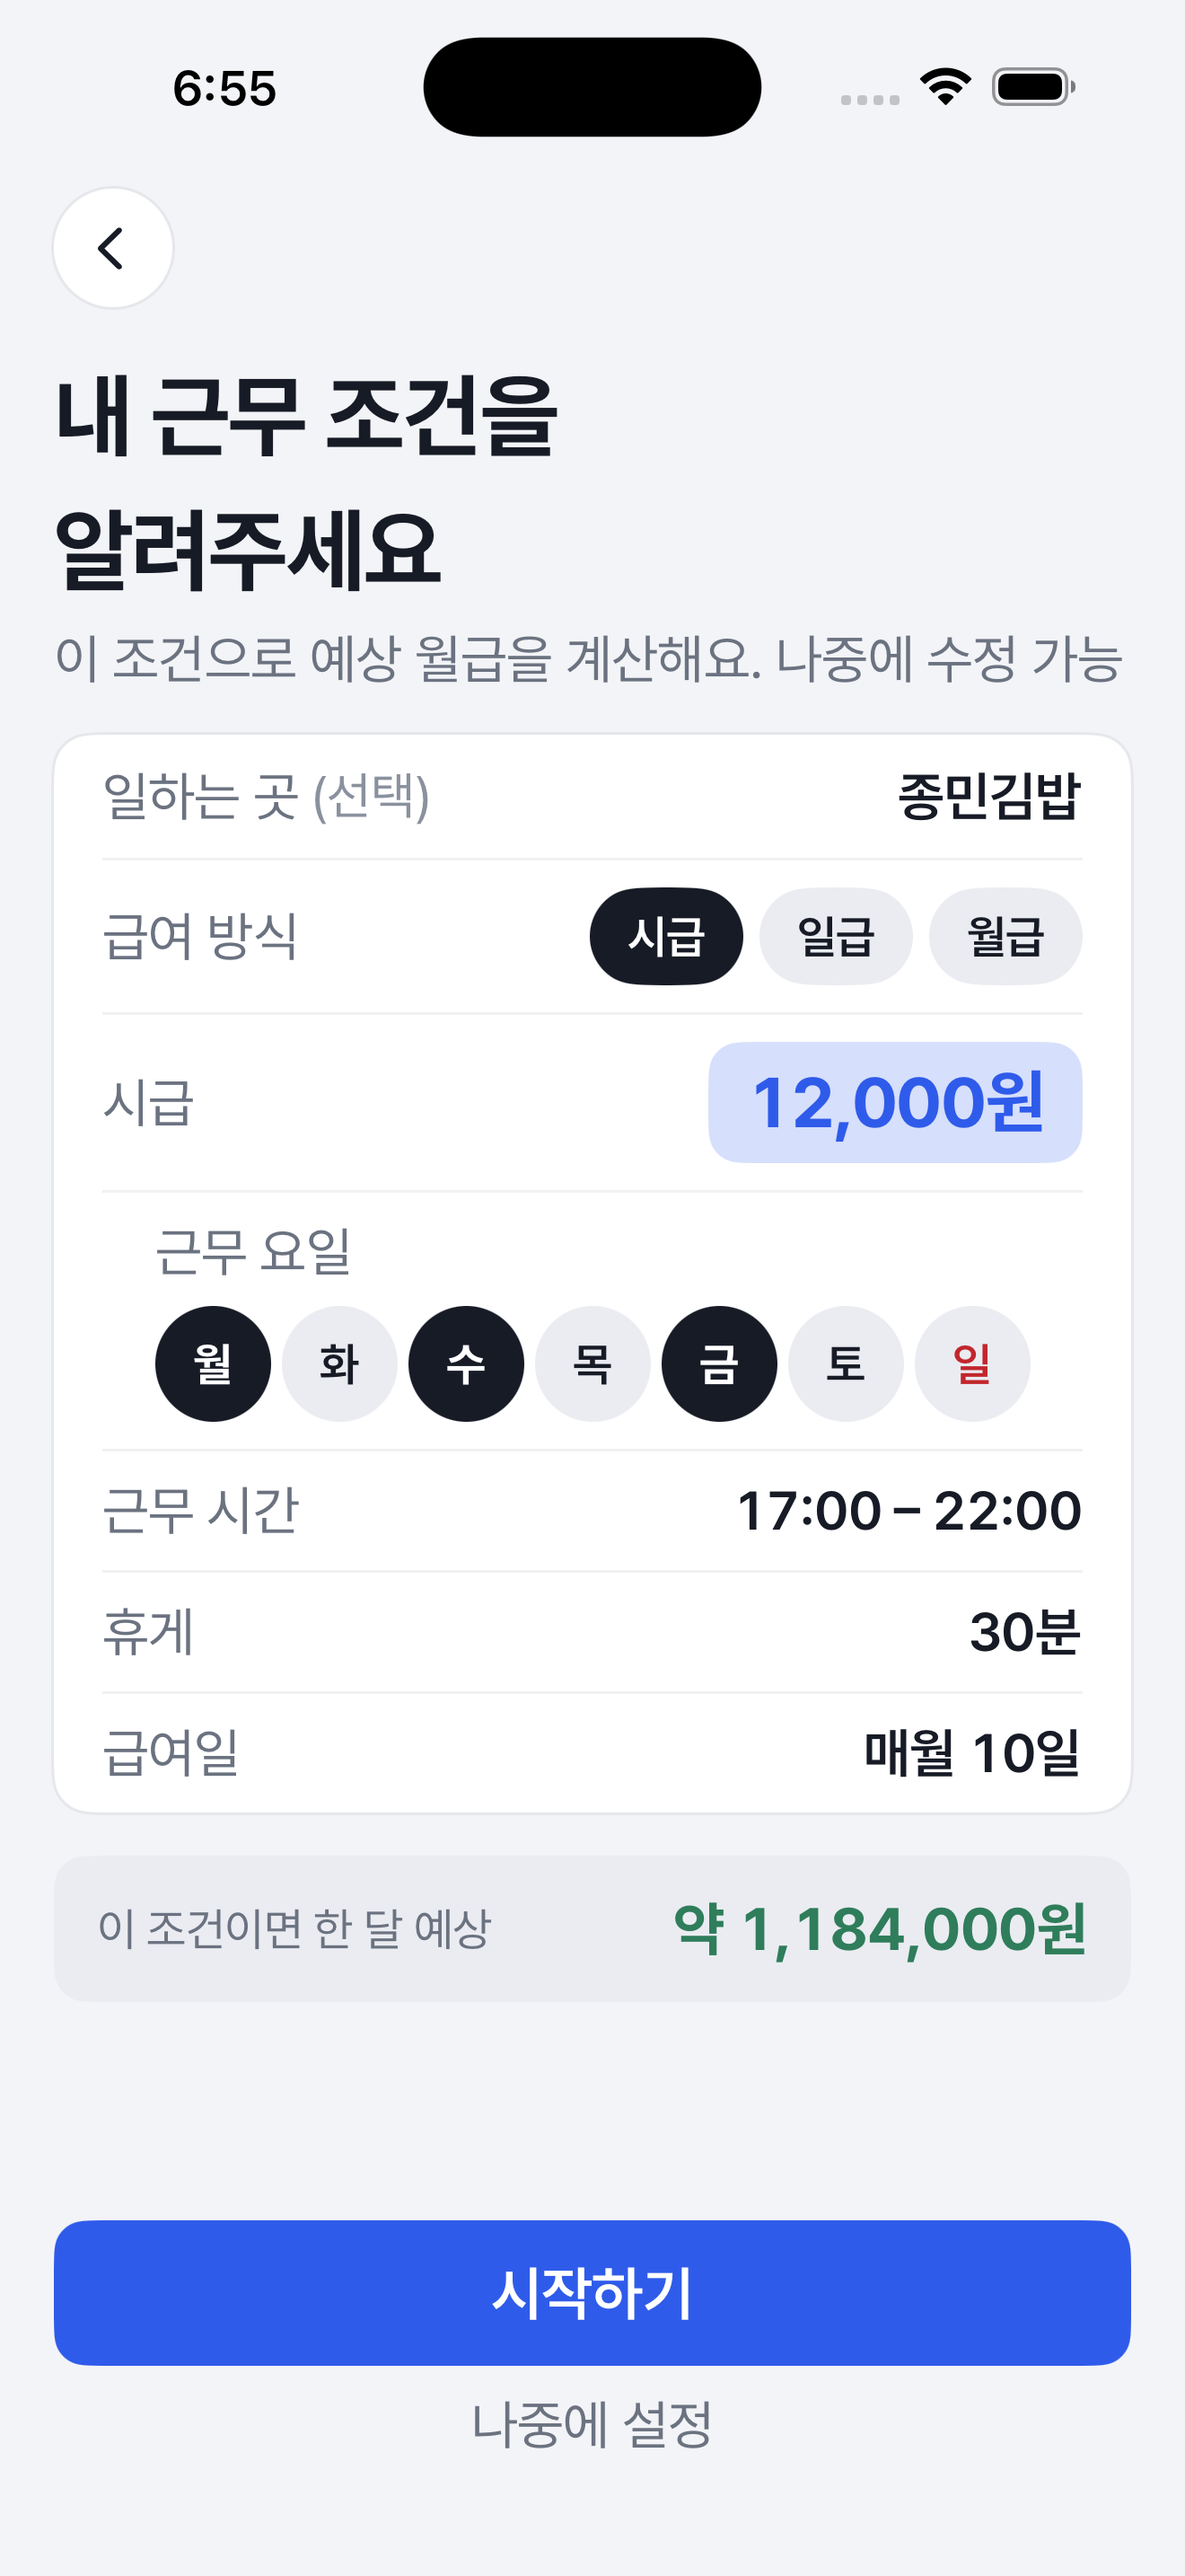
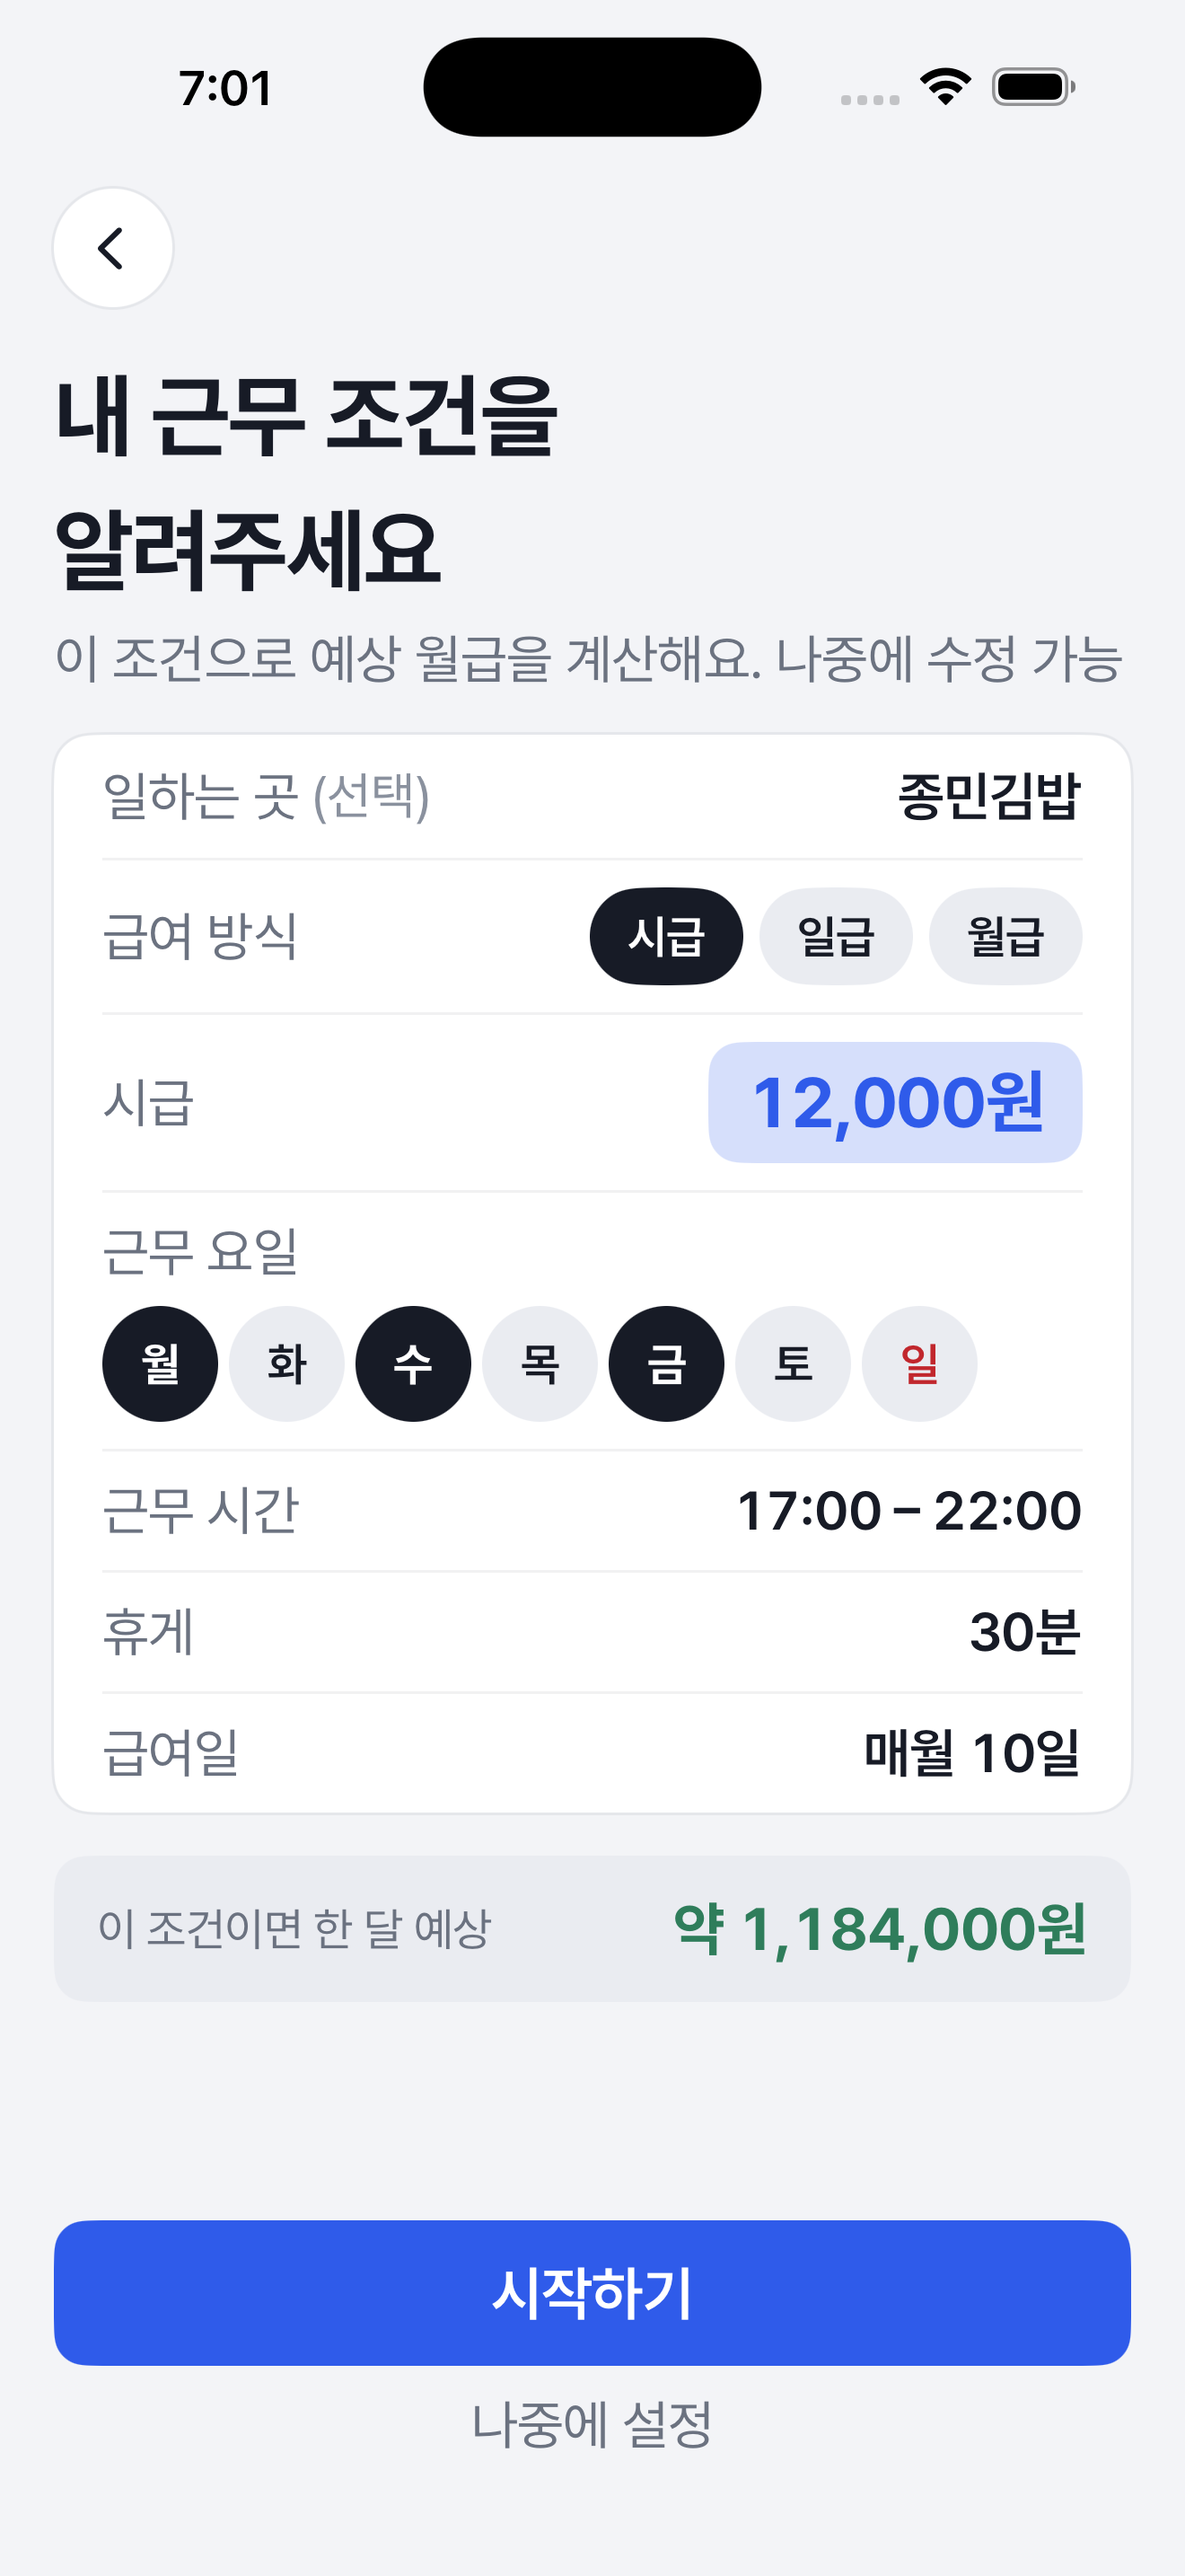
fix(onboarding): 개인 근로조건(2e) QA 반영 — 예상 월급 갱신
- 엔진 예상 값을 계산 조건과 함께 받아 지금 조건일 때만 표시
  (조건을 바꾸면 옛 값을 숨기고, 부모가 estimate로 새 값을 넘김)
- 조건이 바뀔 때만 onTermsChange
- 큰 글자에서 접힌 행도 같은 왼쪽 선
- 소수점 붙여넣기는 정수부만(1.5 → 1)
- 테스트 · 비교표 2e 추가

Refs #131 · UI-IOS-2e · REQ-005

diff --git a/Pum/Pum/Features/Onboarding/PersonalTerms/PersonalTermsModel.swift b/Pum/Pum/Features/Onboarding/PersonalTerms/PersonalTermsModel.swift
@@ -29,13 +29,38 @@ struct PersonalTermsState: Equatable {
     var breakMinutes: Int = 30
     /// 매월 N일
     var payday: Int = 10
-    /// 엔진(서버)이 계산해 넘긴 한 달 예상(원). 없으면 상자를 숨긴다.
-    var estimatedMonthly: Int?
+    /// 엔진(서버)이 계산해 넘긴 한 달 예상. 지금 조건으로 계산된 값일 때만 보인다(없으면 상자 숨김).
+    var estimate: Estimate?
+
+    /// 예상 월급 계산에 쓰이는 조건(일하는 곳 · 급여일은 금액에 영향 없음)
+    struct Basis: Equatable {
+        var payType: PayType
+        var amount: Int
+        var days: Set<Int>
+        var startMinute: Int
+        var endMinute: Int
+        var breakMinutes: Int
+    }
+
+    /// 어떤 조건으로 계산했는지와 금액(원) — 조건이 바뀌면 옛 값을 보이지 않게
+    struct Estimate: Equatable {
+        var basis: Basis
+        var amount: Int
+    }
+
+    var basis: Basis {
+        Basis(payType: payType, amount: amount, days: days,
+              startMinute: startMinute, endMinute: endMinute, breakMinutes: breakMinutes)
+    }
 
     /// 디자인 원문: 종민김밥 · 시급 12,000원 · 월수금 · 17:00–22:00 · 휴게 30분 · 매월 10일 · 약 1,184,000원
-    static let sample = PersonalTermsState(
-        workplace: "종민김밥", payType: .hourly, amount: 12_000, days: [1, 3, 5],
-        startMinute: 17 * 60, endMinute: 22 * 60, breakMinutes: 30, payday: 10, estimatedMonthly: 1_184_000)
+    static let sample: PersonalTermsState = {
+        var s = PersonalTermsState(
+            workplace: "종민김밥", payType: .hourly, amount: 12_000, days: [1, 3, 5],
+            startMinute: 17 * 60, endMinute: 22 * 60, breakMinutes: 30, payday: 10)
+        s.estimate = Estimate(basis: s.basis, amount: 1_184_000)
+        return s
+    }()
 
     /// 실제 진입: 비어 있는 기본값(금액 0 · 요일 없음)
     static let entry = PersonalTermsState()
@@ -43,9 +68,10 @@ struct PersonalTermsState: Equatable {
     /// 「시작하기」 활성 조건(비활성 이유 문구는 디자인 없음 — 충돌 #30)
     var canStart: Bool { amount > 0 && !days.isEmpty }
 
-    /// 숫자만 · 최대 9자리 정수로 다듬는다(쉼표 · 원 · 붙여넣기 포함)
+    /// 숫자만 · 최대 9자리 정수로 다듬는다(쉼표 · 원 · 붙여넣기 포함). 소수점 아래는 버린다(「1.5」 → 1).
     static func sanitizedAmount(_ raw: String) -> Int {
-        Int(String(raw.filter { $0.isASCII && $0.isNumber }.prefix(maxAmountDigits))) ?? 0
+        let whole = raw.split(separator: ".", maxSplits: 1, omittingEmptySubsequences: false).first.map(String.init) ?? ""
+        return Int(String(whole.filter { $0.isASCII && $0.isNumber }.prefix(maxAmountDigits))) ?? 0
     }
 
     func isSelected(_ day: Int) -> Bool { days.contains(day) }
@@ -63,5 +89,9 @@ struct PersonalTermsState: Equatable {
     var timeRangeText: String { PumFormat.timeRange(Self.clock(startMinute), Self.clock(endMinute)) }
     var breakText: String { "\(breakMinutes)분" }
     var paydayText: String { "매월 \(payday)일" }
-    var estimateText: String? { estimatedMonthly.map { "약 \(PumFormat.amount($0))원" } }
+    /// 지금 조건으로 계산된 예상만 표시
+    var estimateText: String? {
+        guard let e = estimate, e.basis == basis else { return nil }
+        return "약 \(PumFormat.amount(e.amount))원"
+    }
 }

diff --git a/Pum/Pum/Features/Onboarding/PersonalTerms/PersonalTermsView.swift b/Pum/Pum/Features/Onboarding/PersonalTerms/PersonalTermsView.swift
@@ -6,6 +6,8 @@ import SwiftUI
 
 struct PersonalTermsView: View {
     @State private var state: PersonalTermsState
+    /// 부모가 엔진 결과를 넘기는 곳 — 조건과 함께 받아 지금 조건일 때만 보인다
+    var estimate: PersonalTermsState.Estimate?
     var onBack: () -> Void
     var onTermsChange: (PersonalTermsState) -> Void
     var onPickTime: () -> Void
@@ -22,6 +24,7 @@ struct PersonalTermsView: View {
     private let cardPadX = PumTokens.Space.s18
 
     init(state: PersonalTermsState = .entry,
+         estimate: PersonalTermsState.Estimate? = nil,
          onBack: @escaping () -> Void = {},
          onTermsChange: @escaping (PersonalTermsState) -> Void = { _ in },
          onPickTime: @escaping () -> Void = {},
@@ -29,7 +32,10 @@ struct PersonalTermsView: View {
          onPickPayday: @escaping () -> Void = {},
          onStart: @escaping (PersonalTermsState) -> Void = { _ in },
          onLater: @escaping () -> Void = {}) {
-        _state = State(initialValue: state)
+        var initial = state
+        if let estimate { initial.estimate = estimate }
+        _state = State(initialValue: initial)
+        self.estimate = estimate
         self.onBack = onBack
         self.onTermsChange = onTermsChange
         self.onPickTime = onPickTime
@@ -58,8 +64,10 @@ struct PersonalTermsView: View {
         .scrollDismissesKeyboard(.interactively)
         .background(PumColor.bgApp)
         .safeAreaInset(edge: .bottom, spacing: 0) { actions }
-        .animation(reduceMotion ? nil : PumMotion.fast, value: state.estimatedMonthly)
-        .onChange(of: state) { _, new in onTermsChange(new) }
+        .animation(reduceMotion ? nil : PumMotion.fast, value: state.estimateText)
+        // 계산 조건이 바뀔 때만 알린다(예상 값이 들어와 바뀐 것은 다시 알리지 않음)
+        .onChange(of: state.basis) { _, _ in onTermsChange(state) }
+        .onChange(of: estimate) { _, new in state.estimate = new }
     }
 
     // 1. 큰 제목 + 안내
@@ -115,6 +123,7 @@ struct PersonalTermsView: View {
         return ViewThatFits(in: .horizontal) {
             HStack(spacing: PumTokens.Space.s12) { k; Spacer(minLength: PumTokens.Space.s8); v }
             VStack(alignment: .leading, spacing: PumTokens.Space.s8) { k; v }
+                .frame(maxWidth: .infinity, alignment: .leading) // 큰 글자에서 접힌 행도 다른 행과 같은 왼쪽 선
         }
     }
 

diff --git a/Pum/PumTests/Features/Onboarding/PersonalTermsTests.swift b/Pum/PumTests/Features/Onboarding/PersonalTermsTests.swift
@@ -30,7 +30,7 @@ struct PersonalTermsTests {
     @Test func 금액은_숫자만_정수() {
         #expect(PersonalTermsState.sanitizedAmount("12,000원") == 12_000)
         #expect(PersonalTermsState.sanitizedAmount("") == 0)
-        #expect(PersonalTermsState.sanitizedAmount("1.5") == 15)
+        #expect(PersonalTermsState.sanitizedAmount("1.5") == 1)
         #expect(PersonalTermsState.sanitizedAmount("12345678901234") == 123_456_789)
     }
 
@@ -50,5 +50,16 @@ struct PersonalTermsTests {
     @Test func 급여방식_이름과_예상값_없음() {
         #expect(PersonalTermsState.PayType.allCases.map(\.title) == ["시급", "일급", "월급"])
         #expect(PersonalTermsState.entry.estimateText == nil)
+    }
+
+    @Test func 조건이_바뀌면_옛_예상은_숨김() {
+        var s = PersonalTermsState.sample
+        #expect(s.estimateText == "약 1,184,000원")
+        s.amount = 13_000
+        #expect(s.estimateText == nil)
+        s.amount = 12_000
+        #expect(s.estimateText == "약 1,184,000원")
+        s.workplace = "다른 곳" // 금액에 영향 없는 값은 그대로
+        #expect(s.estimateText != nil)
     }
 }

diff --git a/docs/design/compare/screens/README.md b/docs/design/compare/screens/README.md
@@ -490,3 +490,13 @@
 | 틀린 코드 · 만료 | 15e · 15f(iOS 7 캔버스) | 아직 없음 — 별도 이슈 | 후속 |
 | 늦게 온 조회 응답 · 연속 누름 | 디자인 없음 | 지금 코드로 조회된 결과만 보임, 확인은 한 번만(QA) | 구현 기준 |
 | 0 · O · 1 · I | 코드에 쓰지 않음(REQ-002) | 입력은 막지 않음 — 서버가 틀린 코드로 응답(15e) | 구현 기준 |
+
+## UI-IOS-2e 개인 근로조건 — 개인 (#131 · 배치 22)
+
+| 항목 | 디자인 | 구현 | 결과 |
+|---|---|---|---|
+| 배치 · 문구 | 뒤로 / 내 근무 조건을 알려주세요 · 안내 / 일하는 곳(선택) · 급여 방식 알약 · 시급 상자 · 근무 요일 칩 7 · 근무 시간 · 휴게 · 급여일 / 한 달 예상 / 시작하기 · 나중에 설정 | 같음(PumChoicePill) | 일치 |
+| 한 달 예상 | 약 1,184,000원 | 엔진 값을 계산 조건과 함께 받아 지금 조건일 때만 표시(QA — 조건을 바꾸면 옛 값 숨김) | 구현 기준 |
+| 요일 칩 | 지름 30 | 보이는 30 · 누름은 위아래로 44(옆 칩과 겹치지 않게) | 가로 누름 영역 30 — 기록 |
+| 근무 시간 · 휴게 · 급여일 선택 | 디자인 없음(값만) | 누름 클로저만 — 선택 휠 · 시트는 후속(#66 시간 선택 휠) | 후속 |
+| 큰 글자 | 디자인 없음 | 넘치는 행은 키 아래로, 같은 왼쪽 선(QA) | 구현 기준 |
